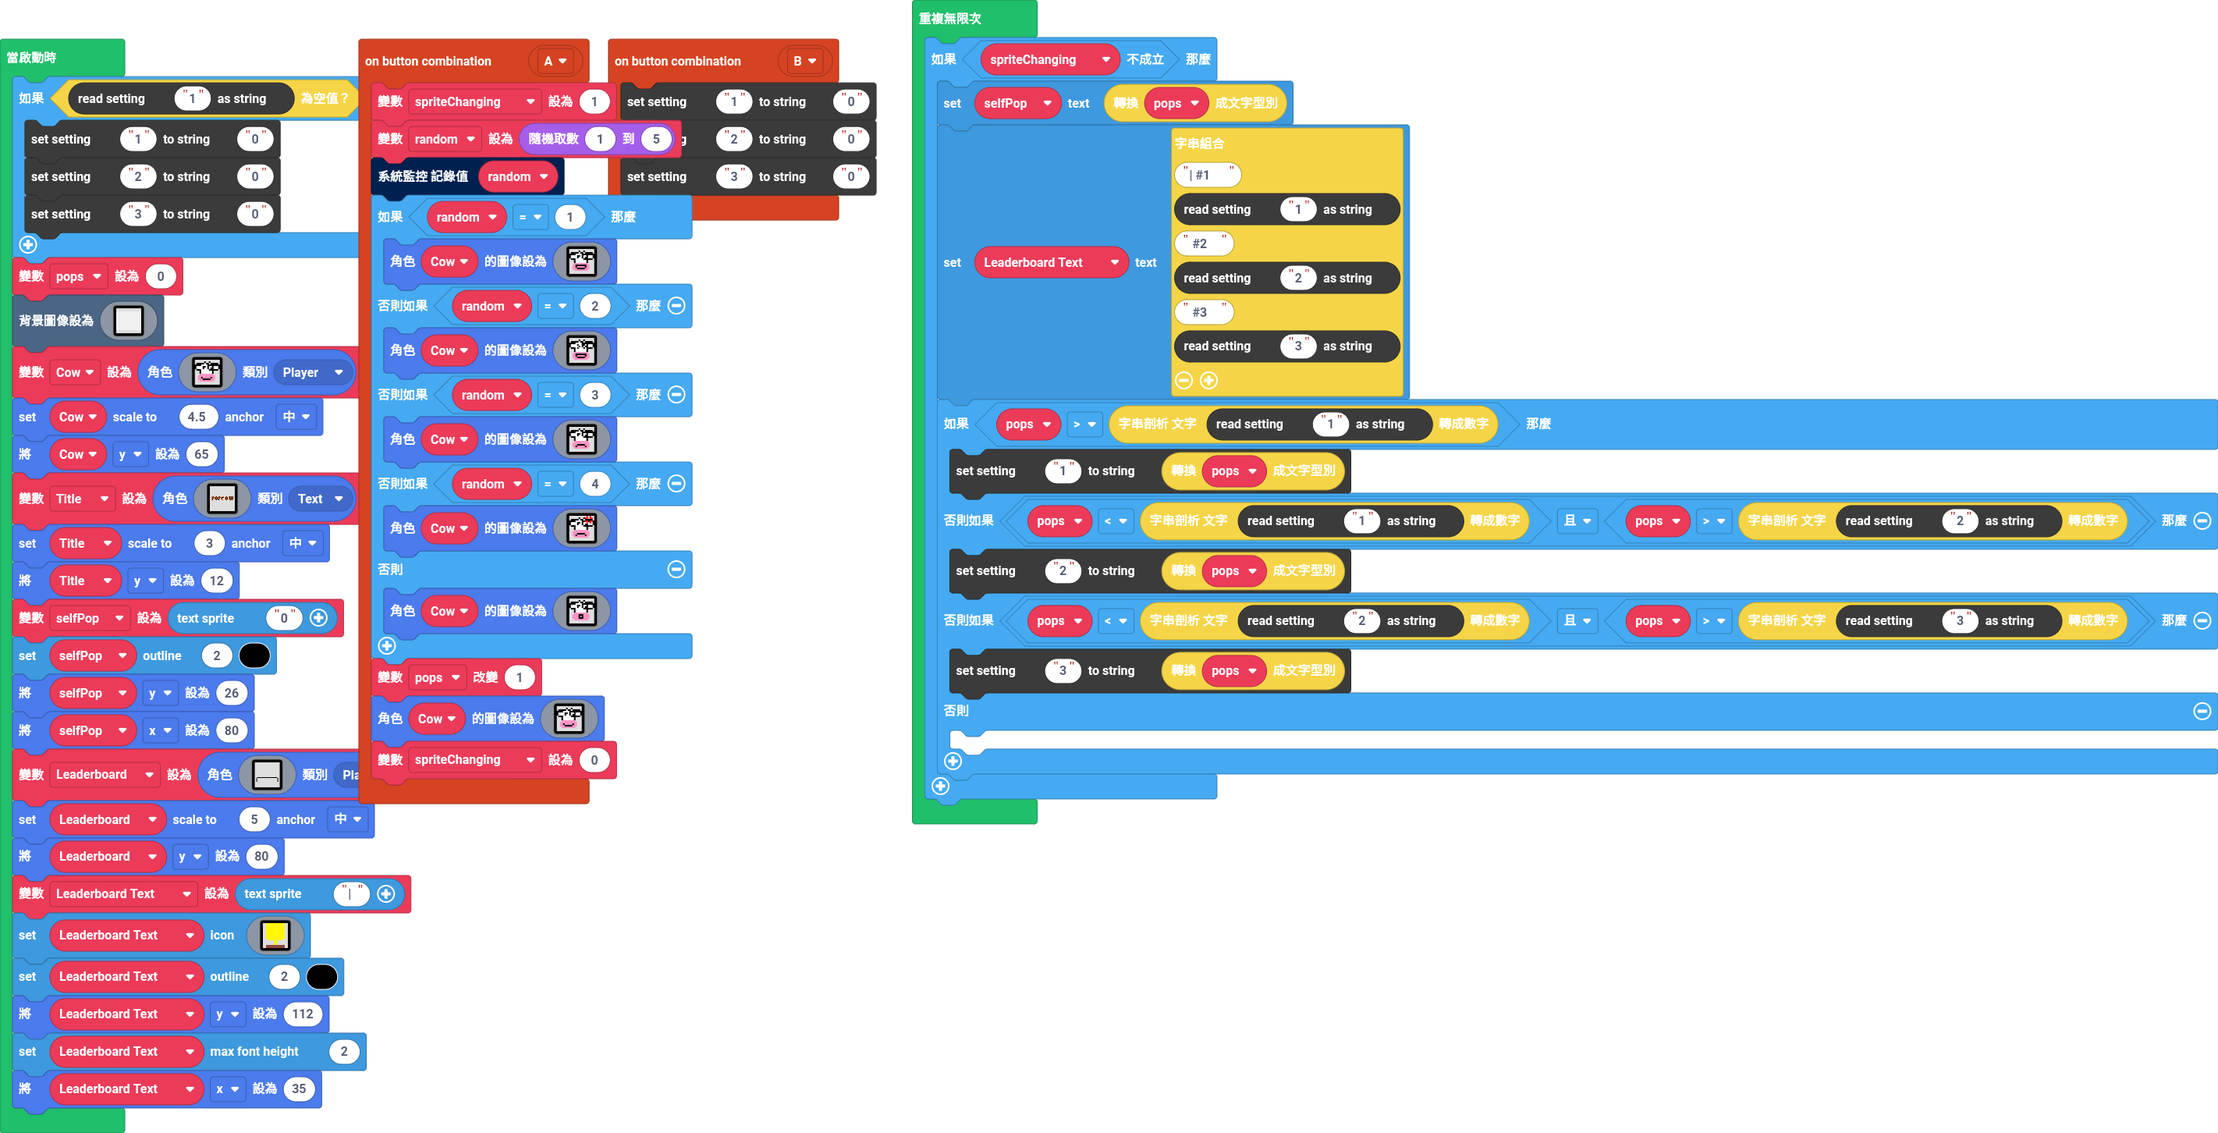
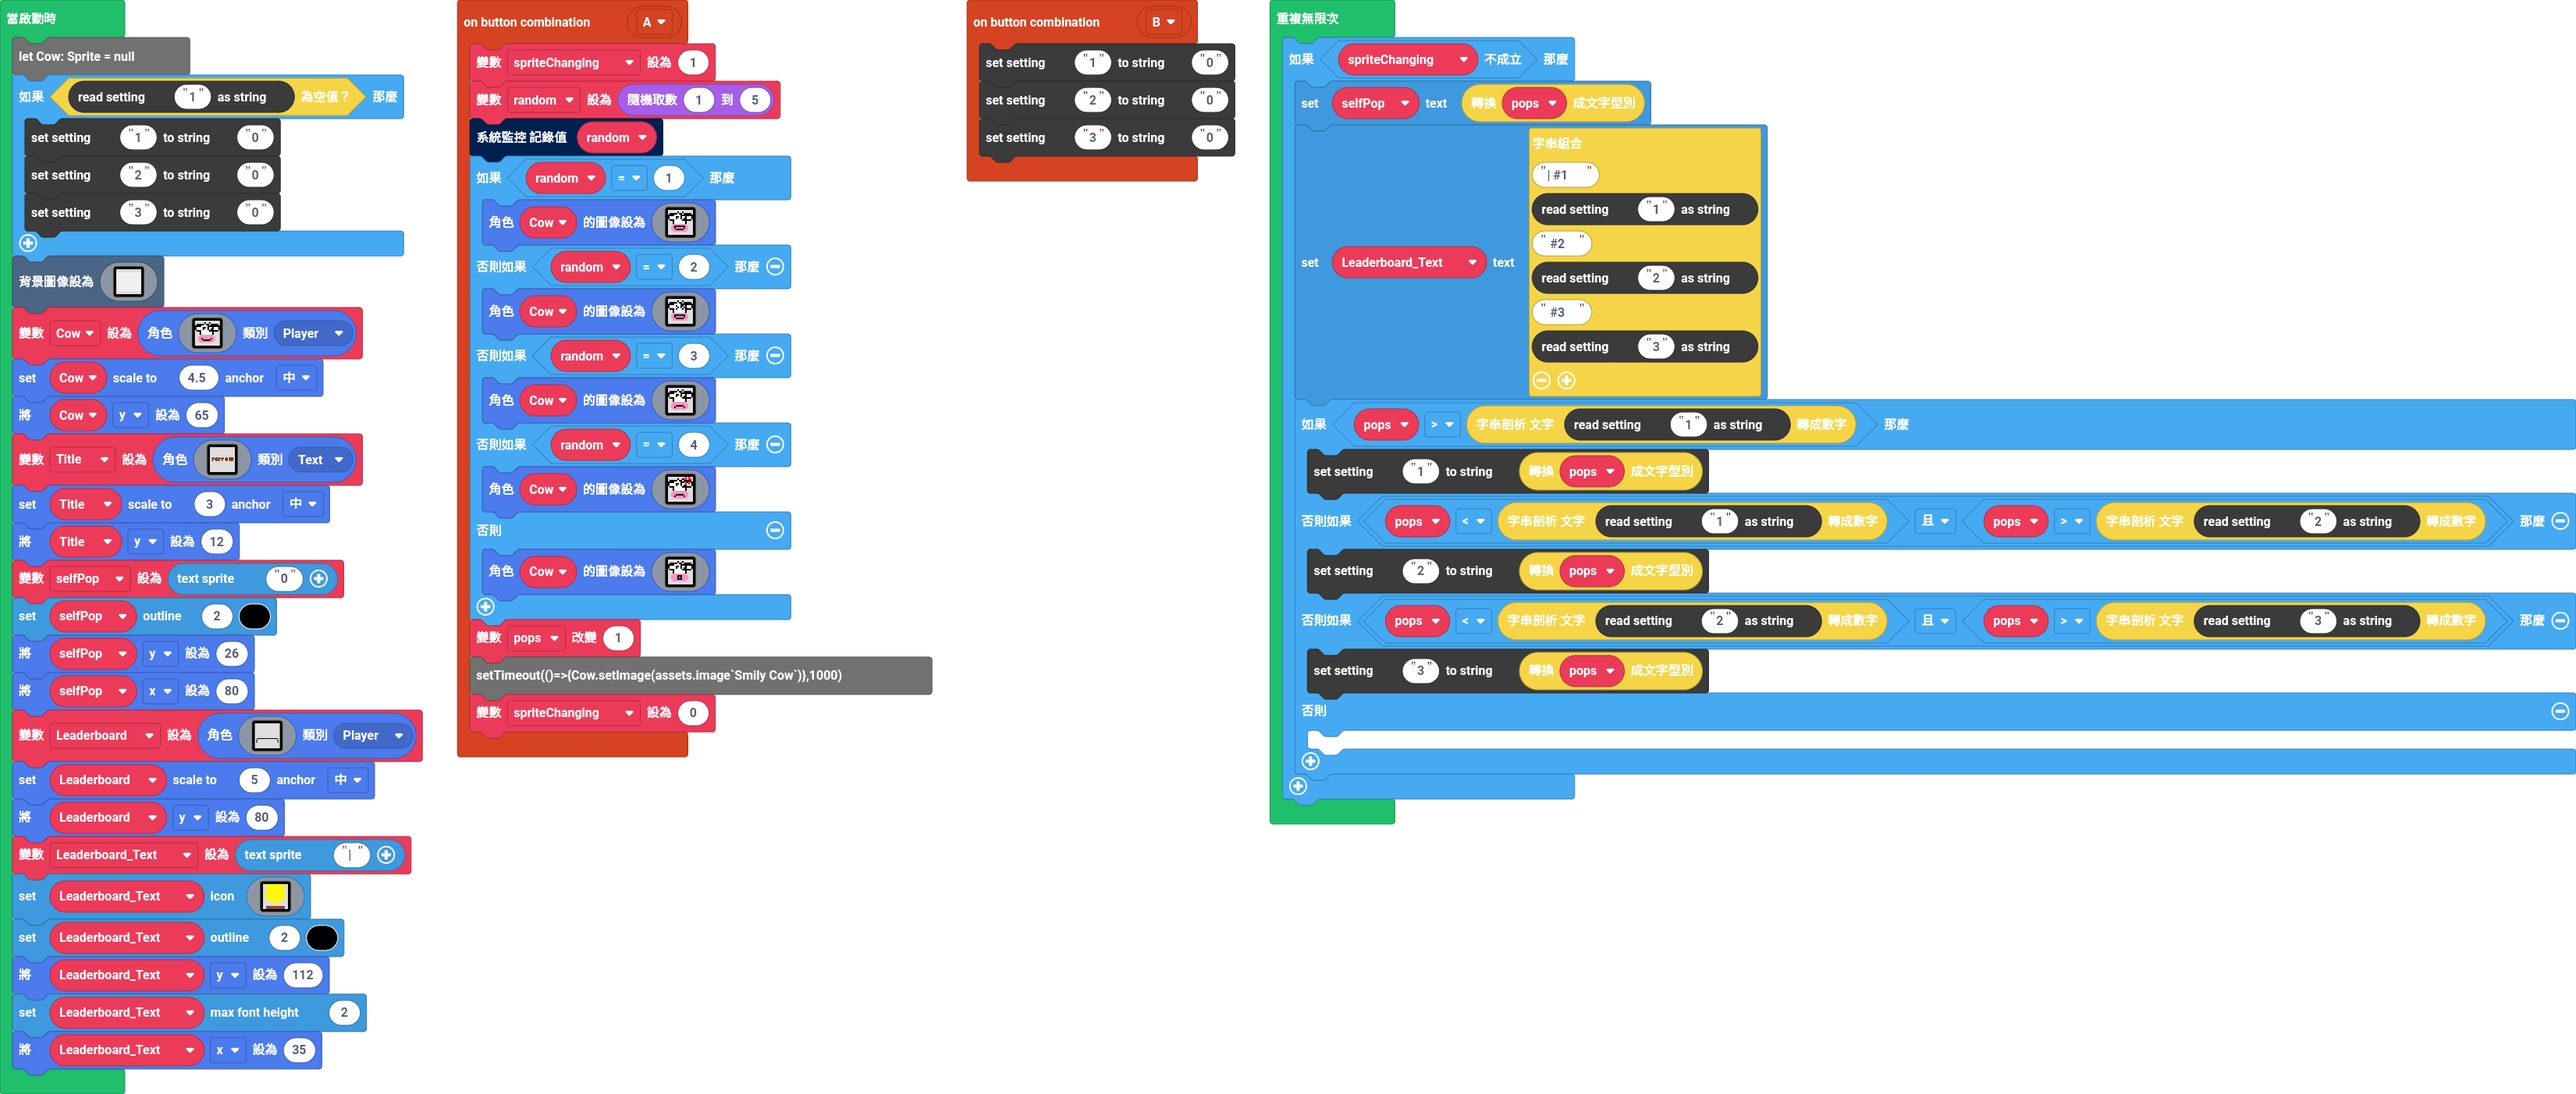
YAY CHANGE SPRITE WORKED

diff --git a/main.ts b/main.ts
@@ -14,14 +14,15 @@ controller.combos.attachCombo(controller.combos.idToString(controller.combos.ID.
         Cow.setImage(assets.image`Oh Cow`)
     }
     pops += 1
-    Cow.setImage(assets.image`Smily Cow`)
-    spriteChanging = 0
+    setTimeout(()=>{Cow.setImage(assets.image`Smily Cow`)},1000)
+spriteChanging = 0
 })
 controller.combos.attachCombo(controller.combos.idToString(controller.combos.ID.B), function () {
     blockSettings.writeString("1", "0")
     blockSettings.writeString("2", "0")
     blockSettings.writeString("3", "0")
 })
+let pops = 0
 let random = 0
 let spriteChanging = 0
 let Cow: Sprite = null
@@ -30,7 +31,6 @@ if (blockSettings.readString("1").isEmpty()) {
     blockSettings.writeString("2", "0")
     blockSettings.writeString("3", "0")
 }
-let pops = 0
 scene.setBackgroundImage(assets.image`White Background`)
 Cow = sprites.create(assets.image`Smily Cow`, SpriteKind.Player)
 Cow.setScale(4.5, ScaleAnchor.Middle)
